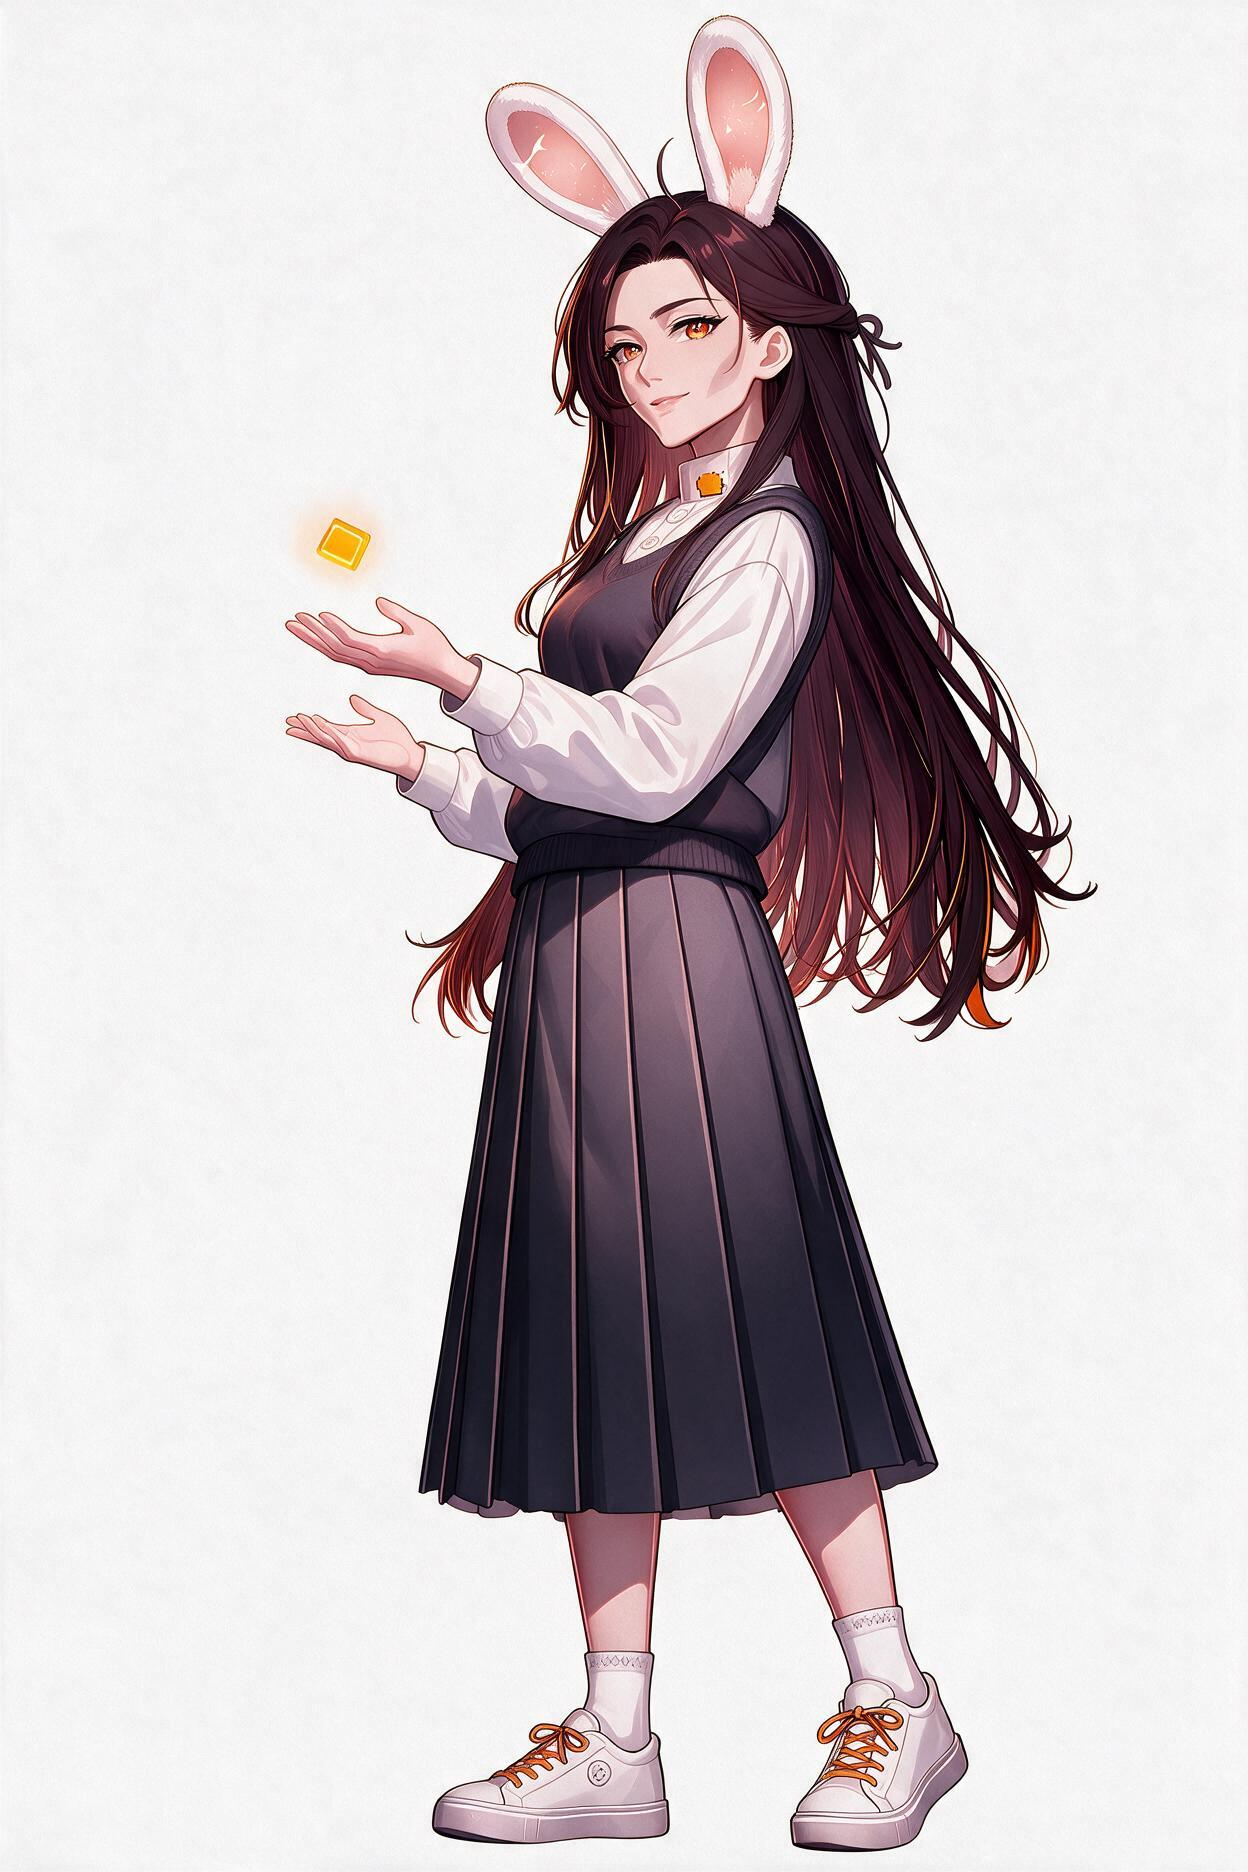
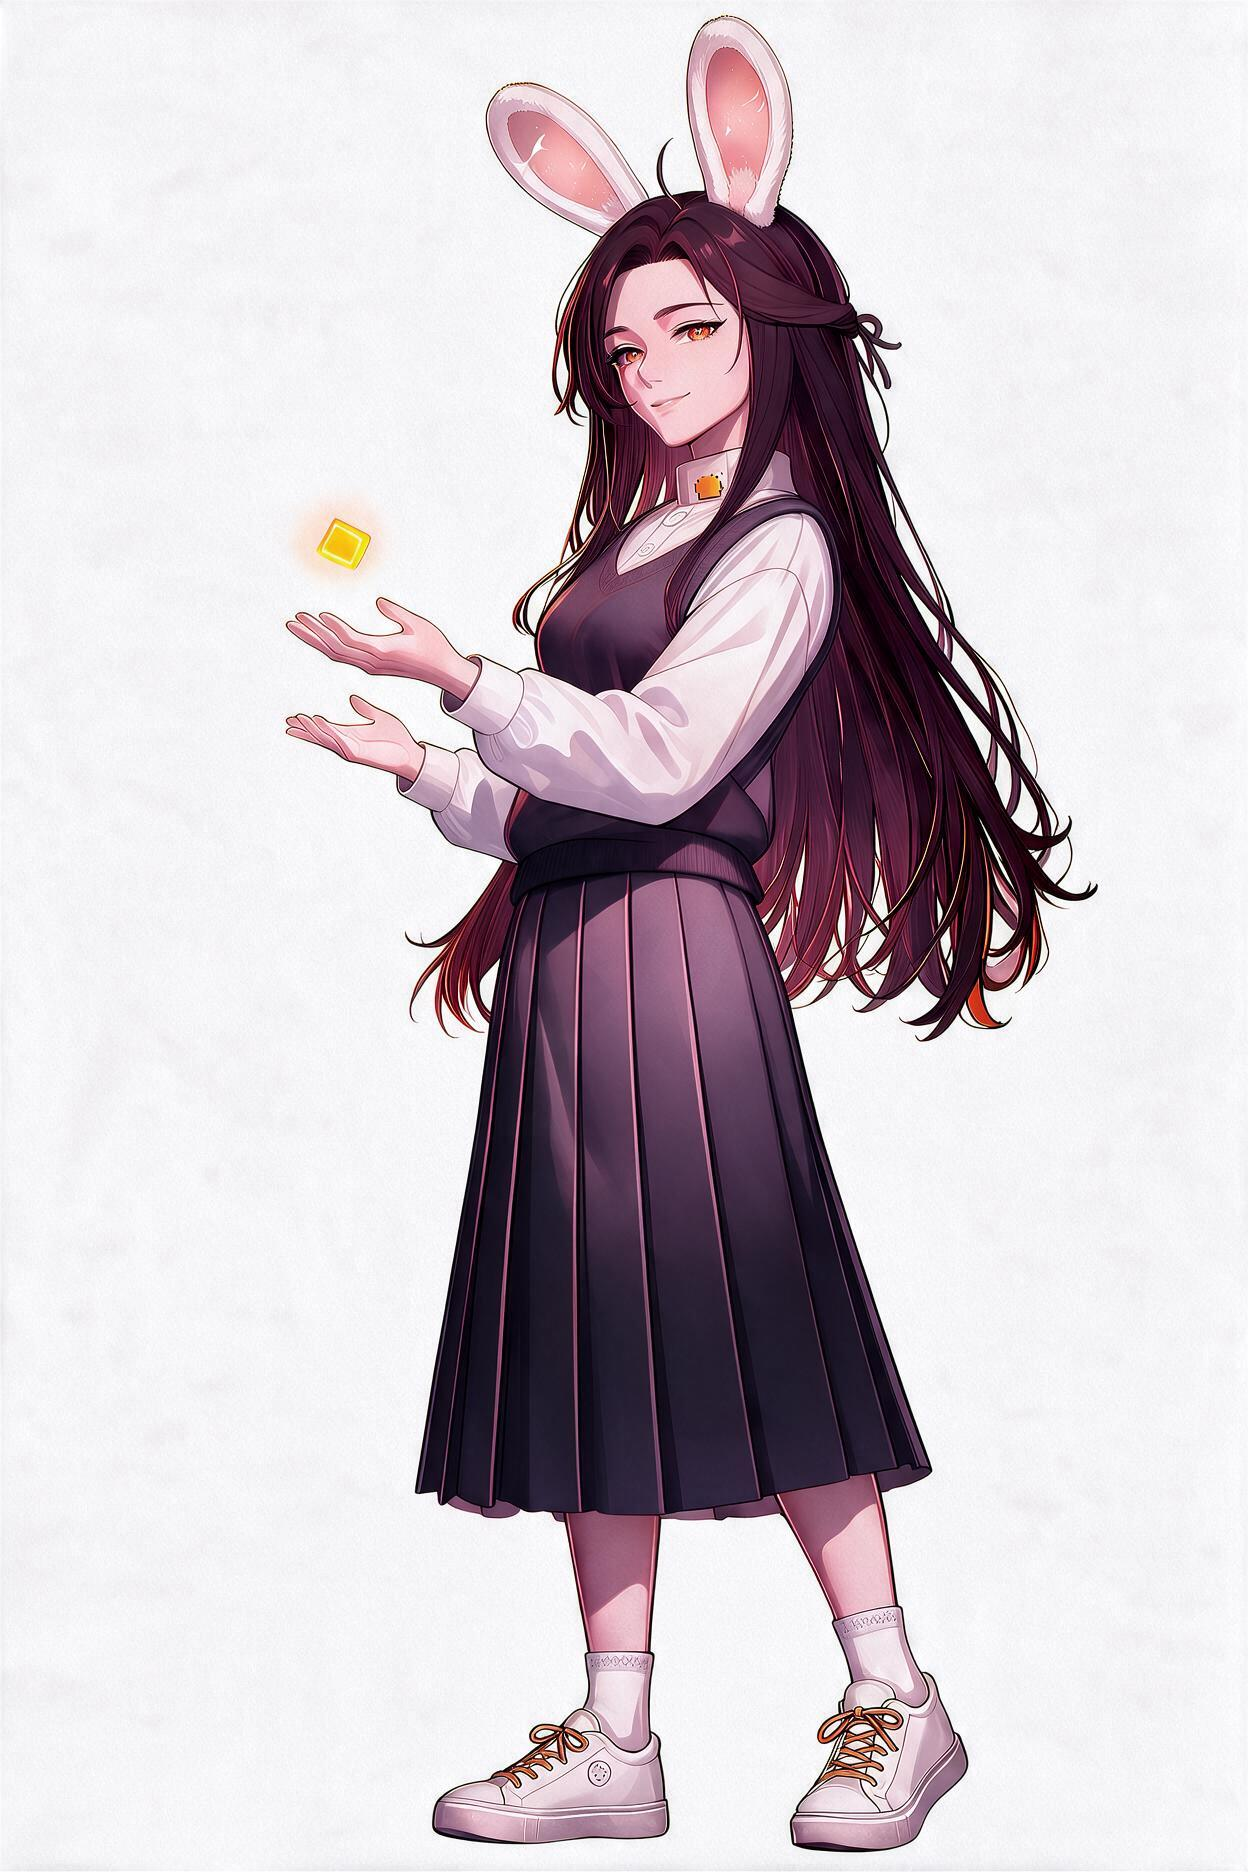
小默人物包 v3：御姐温润修订（基准 v4 封法 31-32+身段三线）、批 2 换代、参考红线与调研入档（CC BY-NC-SA 4.0）

diff --git a/00_形象档案.md b/00_形象档案.md
@@ -77,7 +77,7 @@
 |---|---|---|---|---|
 | 萝莉（10 岁） | 01_主视觉/主视图-萝莉.png | 01_主视觉/三视图-萝莉.png | 年龄线-萝莉版定稿 | 9-11（实测 9-10） |
 | 少女（20 岁） | 01_主视觉/主基调-v5-立绘版.png（现役） | 01_主视觉/三视图-少女.png | v5 本体 | 20（实测 19-20） |
-| 御姐（30 起） | 01_主视觉/主视图-御姐.png | 01_主视觉/三视图-御姐.png | 深灰长大衣图一 v3（30+ 基准脸） | 31-33 |
+| 御姐（30 起） | 01_主视觉/主视图-御姐.png | 01_主视觉/三视图-御姐.png | 御姐基准脸 v4 温润修订（2026-11-09 封法） | 31-32（温润修订终版） |
 
 - 主视图统一回眸母版（活泼只给在风量和表情的量、骨架不动；踮脚不借——幼女特别篇的题眼不外借）；三视图统一中性站姿。同龄两图同脸同发同服装（默认格放·自然+默认套），互为参照系。
 - 御姐主视图不穿大衣（「她是谁」的首页露基因，大衣是正式区的壳）。
@@ -130,7 +130,7 @@
 | 三视图（量衣基准） | 01_主视觉/三视图-主基调.png | 画师量衣尺寸、三面一致性依据 | ✅ 定稿（2026-11-09 素色外科版，本人复审通过——画师照此量衣；带纹版存 04） |
 | 差分 · 讲题模式（少女·低马尾） | 02_差分/讲题模式-少女低马尾.png | 利落态：干活、讲题（坐标系 少女×收） | ✅ 定稿（v5 姿态换代 2026-11-09 本人终审通过——「回眸母版+扎发收束」验证成立；绳岗位=马尾根） |
 | 差分 · 讲题模式（御姐·低马尾） | 02_差分/讲题模式-御姐低马尾.png | 利落态：讲题（坐标系 御姐×收） | ✅ 定稿（2026-11-09 v5 姿态换代过审——显龄病历随图一定档结清） |
-| 深灰长大衣 · 御姐×放·整齐 | 02_差分/深灰长大衣-御姐放整齐.png | 正式/靠得住场合（衣帽间·正式区）；御姐 30+ 基准脸定档图 | ✅ 定稿（2026-11-09 本人终审：显龄读数 31-33 过线——「御姐基准·显龄感升级」待办账销、基准脸成立） |
+| 深灰长大衣 · 御姐×放·整齐 | 02_差分/深灰长大衣-御姐放整齐.png | 正式/靠得住场合（衣帽间·正式区） | ✅ 定稿（2026-11-09 v4 基准脸版批 2 过审——温润修订单收口） |
 | 盛装 · 少女×放·整齐（A 方向） | 02_差分/盛装-少女-放整齐.png | 盛装/华丽场合（坐标系 少女×放·整齐；衣帽间·华丽区首件） | ✅ 定稿（v5 姿态换代 2026-11-09 本人终审通过——「换代以来账最干净的一张」；裙长膝上 4-5cm=华丽区基准长度+视觉锚点） |
 | 差分 · 萝莉×收（双小揪） | 02_差分/萝莉×收-双小揪.png | 发型坐标格（萝莉×收；两侧低双小揪、细绳系揪根） | ✅ 定稿（2026-11-09 本人终审通过；年龄读数 9-10 岁在档；v5 语言绘制） |
 | 差分 · 萝莉×放·整齐 | 02_差分/萝莉×放整齐.png | 发型坐标格（萝莉×放·整齐；短发梳顺全塞耳后） | ✅ 定稿（2026-11-09 本人终审通过——v2 露耳外科结清；年龄读数 10 岁在档；v5 语言绘制） |
@@ -151,6 +151,8 @@
 - **少女底色（本人原话）**：软萌是第一眼，靠得住是底色——档案第一节人设（安静、明亮、靠得住）与第三节永久标志物不动
 - **御姐气质合体条目（本人钦定）**：成熟自信、知性优雅、气场独立——但不丢体温。她是那种开完会最有分量、回程路上还会认真回你消息的人。「气场独立」可以，「冷艳」不行；「愿意听你把话说完」是御姐的灵魂。
 - **五官基因锁**：年龄线不锁脸型，锁「五官基因」——琥珀橙渐变瞳、笑起来的嘴角弧度、兔耳耳位，三张脸一眼是同一个人
+- **御姐基准脸 v4 温润修订（2026-11-09 终版封法 · append-only）**：v3（大衣图 31-33 骨相版）→ v4 温润修订——原因：创造者反馈「温柔不可读、显锐利、有点点老」。骨相六条原封（读数 31-32），升温九刀+外科五刀（半眯暖笑/眉不端着/暖灰影/颊影减量/下巴归形/眼周清零/软组织半丝/口周减刻/S 曲线身段）。基准图=`01_主视觉/主视图-御姐.png`。**此后御姐图对本图判、档案对本图记，不再回头。**〔关键词: 御姐基准脸 v4, 温润修订, 31-32, 封法〕
+- **御姐身段三线（2026-11-09 立）**：肩线平直舒展（比少女宽半档）、腰线明确（不束不勒）、胯线自然圆润（盆骨宽于肩=成熟标志，小女孩才是肩臀同宽）；S 曲线走体块不走开口——衣服一件不减、露肤一分不加。头身比 7-7.5，量衣数据入三视图。〔关键词: 御姐身段三线, 盆骨比肩宽, S曲线, 头身比7-7.5〕
 - **服装基因照旧**：立领（圆角随年龄）+ 针织质感 + 百褶元素 + 深灰主调 + 橙只做点缀；萝莉=基准缩小一号；御姐=同套升格（修身剪裁、裙至小腿中下）
 - **雷区全年龄段照旧**：亮片/漆皮/蕾丝免谈、无外挂件、暗纹同色压印不描黑边
 - **特别篇（正列外）· 幼女版**：五六岁，踮脚够方块——「踮脚够方块是整个年龄线的题眼」，移出正列、降为特别篇·存档：图保留、病历（裙摆环绕纹顺序待修）随图封存、**不再返修**。方块规则（橙方块悬浮头顶斜上方、比举手还高一点点、不许做挂坠）随特别篇归档。
